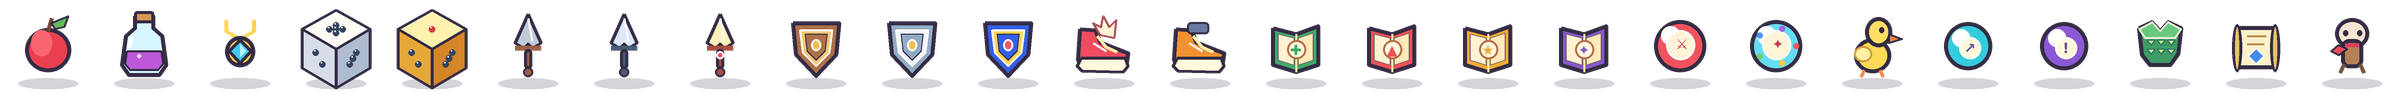
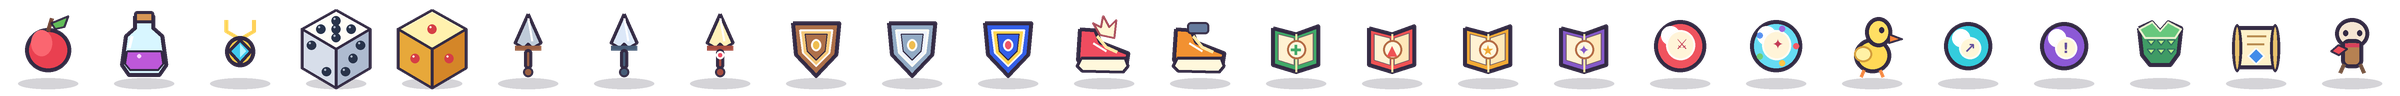
Polish item notices, status effects, rematch and respawn

Changed region(s): [[0.125, 0.1875, 0.1875, 0.7812]]

diff --git a/packages/client/src/scenes/Field.ts b/packages/client/src/scenes/Field.ts
@@ -47,6 +47,7 @@ export class Field extends Phaser.Scene {
   private actor = 0;
   private hpWin: HTMLElement | null = null;
   private timerWin: HTMLElement | null = null;
+  private pendingRespawn: { seat: number; x: number; y: number; dir: PublicPlayer['dir'] } | null = null;
 
   constructor() {
     super('Field');
@@ -58,6 +59,7 @@ export class Field extends Phaser.Scene {
     this.busy = false;
     this.shownAsk = '';
     this.streamedAsk = '';
+    this.pendingRespawn = null;
   }
 
   create() {
@@ -94,6 +96,7 @@ export class Field extends Phaser.Scene {
       host.batch.on((b) => { this.queue.push(b); void this.pump(); }),
       host.askChanged.on(() => this.refreshAsk(true)),
       host.kind === 'online' ? host.chat.on((m) => say({ from: m.from, text: m.text, color: m.color, system: !!m.system })) : () => {},
+      host.kind === 'online' ? net.started.on((next) => this.scene.restart({ host: next })) : () => {},
       onLayout(() => this.time.delayedCall(0, () => { this.status?.draw(this.view, this.view.turn); this.lookAt(this.actor); this.positionDesc(); })),
     ];
     this.events.once('shutdown', () => {
@@ -189,6 +192,7 @@ export class Field extends Phaser.Scene {
     this.heroes[seat].setPosition(px, py + CHR_OFFS_Y);
     this.shadows[seat].setPosition(px, py + 8);
     this.restack();
+    this.syncMarks(seat);
   }
 
   /** 手番キャラは同じマスでも一番手前 */
@@ -273,11 +277,12 @@ export class Field extends Phaser.Scene {
     this.descWin?.append(h('div', { class: 'tap-instruction' }, `もう一度タップすると${action}`));
   }
 
-  private gotWin(icon: number | null, text: string) {
+  private gotWin(icon: number | null, text: string, durationMs = 1500) {
     const el = centerWin(140, 140, icon ? h('span', { style: `${iconStyle(icon)};vertical-align:middle;margin-right:6px` }) : null, text);
+    el.classList.add('notice-window');
     if (icon) el.querySelector('span')?.classList.add('win-icon');
     fieldUI().append(el);
-    this.time.delayedCall(frames(30), () => el.remove());
+    this.time.delayedCall(durationMs, () => el.remove());
   }
 
   private refreshAsk(force = false) {
@@ -436,11 +441,21 @@ export class Field extends Phaser.Scene {
 
   private setMarks(p: PublicPlayer) {
     const list = this.marks[p.seat];
-    list.forEach((m) => m.destroy());
-    list.length = 0;
     const s = this.heroes[p.seat];
-    if (p.stun > 0) list.push(this.add.sprite(s.x, s.y - 22, 'fx/piyo').play('fx/piyo').setScale(0.5).setDepth(99999));
-    if (p.cursed) list.push(this.add.sprite(s.x + 10, s.y - 18, 'fx/curse').play('fx/curse').setScale(0.35).setDepth(99999));
+    const sync = (texture: string, active: boolean, x: number, y: number, scale: number) => {
+      const index = list.findIndex((mark) => mark.texture.key === texture);
+      if (!active) {
+        if (index >= 0) list.splice(index, 1)[0].destroy();
+        return;
+      }
+      if (index >= 0) {
+        list[index].setPosition(x, y).setDepth(99999).setScale(scale);
+        return;
+      }
+      list.push(this.add.sprite(x, y, texture).play(texture).setScale(scale).setDepth(99999));
+    };
+    sync('fx/piyo', p.stun > 0, s.x, s.y - 22, 0.5);
+    sync('fx/curse', p.cursed, s.x + 10, s.y - 18, 0.35);
   }
 
   private syncMarks(seat: number) {
@@ -562,8 +577,12 @@ export class Field extends Phaser.Scene {
       case 'getItem':
         se('get');
         system(`${this.name(e.seat)}は${ITEMS[e.item].name}を手に入れた！`);
-        if (this.host.mySeats.has(e.seat)) this.gotWin(e.item, `${ITEMS[e.item].name}を手に入れた！`);
-        await wait(this, frames(10));
+        this.gotWin(e.item, `${this.name(e.seat)}は${ITEMS[e.item].name}を手に入れた！`);
+        await wait(this, 1500);
+        return;
+      case 'itemUse':
+        this.gotWin(e.item, `${this.name(e.seat)}は${ITEMS[e.item].name}を使った！`);
+        await wait(this, 1500);
         return;
       case 'loseItem':
         return;
@@ -617,6 +636,11 @@ export class Field extends Phaser.Scene {
         this.hpWin = null;
         this.view = { ...this.view, battle: null };
         bgm('field');
+        if (this.pendingRespawn) {
+          const r = this.pendingRespawn;
+          this.pendingRespawn = null;
+          await this.animateRespawn(r.seat, r);
+        }
         return;
       case 'death':
         se('lose');
@@ -627,15 +651,13 @@ export class Field extends Phaser.Scene {
         await wait(this, frames(10));
         return;
       case 'respawn': {
-        const r = end.players[e.seat]?.respawn;
-        if (r) {
-          this.placeHero(e.seat, r.x, r.y);
-          this.heroes[e.seat].setAlpha(1).setAngle(0);
-          se('warp');
-          this.lookAt(e.seat);
-          this.fxAt('warp', this.heroes[e.seat].x, this.heroes[e.seat].y);
-        }
-        await wait(this, frames(10));
+        const player = end.players[e.seat];
+        if (!player) return;
+        this.setMarks(player);
+        const r = player.respawn;
+        const target = { seat: e.seat, x: r.x, y: r.y, dir: r.dir };
+        if (inBattle) this.pendingRespawn = target;
+        else await this.animateRespawn(e.seat, target);
         return;
       }
       case 'warp': {
@@ -712,23 +734,58 @@ export class Field extends Phaser.Scene {
     });
   }
 
+  private async animateRespawn(seat: number, target: { x: number; y: number; dir: PublicPlayer['dir'] }) {
+    const hero = this.heroes[seat];
+    if (!hero) return;
+    const x = target.x * T + T / 2;
+    const y = target.y * T + T / 2 + CHR_OFFS_Y;
+    const dx = x - hero.x;
+    const dy = y - hero.y;
+    const direction = Math.abs(dx) > Math.abs(dy) ? (dx >= 0 ? 'right' : 'left') : (dy >= 0 ? 'down' : 'up');
+    this.lookAt(seat);
+    this.faceHero(seat, direction, true);
+    hero.setVisible(true).setAlpha(0.35).setAngle(0);
+    se('warp');
+    this.fxAt('warp', hero.x, hero.y);
+    await tween(this, {
+      targets: hero, x, y, alpha: 1, angle: 0, duration: frames(24), ease: 'Sine.easeInOut',
+      onUpdate: () => {
+        this.shadows[seat].setPosition(hero.x, hero.y - CHR_OFFS_Y + 8);
+        this.syncMarks(seat);
+        this.restack();
+      },
+    });
+    hero.stop();
+    this.faceHero(seat, target.dir, false);
+    this.placeHero(seat, target.x, target.y);
+    this.fxAt('warp', hero.x, hero.y);
+    await wait(this, frames(8));
+  }
+
   /** 結果（UI_LAYOUT §5）：閉じるとゲーム終了 */
   private result(winner: number) {
     const close = () => {
       if (this.host.kind === 'online') net.leave();
       this.scene.start('Menu');
     };
-    const items: MenuItem[] = [{ label: '閉じる', on: close }];
-    if (this.host.kind === 'online') items.unshift({ label: 'リマッチ', on: () => net.send('rematch') });
-    items.unshift({
-      label: 'リプレイ保存', on: async () => {
+    const actions: HTMLElement[] = [];
+    if (this.host.kind === 'online') {
+      const rematch = h('button', { type: 'button', class: 'result-action', onclick: () => {
+        if (rematch.disabled) return;
+        rematch.disabled = true;
+        rematch.textContent = '相手の再戦を待っています…';
+        net.send('rematch');
+      } }, 'リマッチ');
+      actions.push(rematch);
+    }
+    actions.push(h('button', { type: 'button', class: 'result-action', onclick: async () => {
         const d = await this.host.replayData();
         if (d) h('a', { href: URL.createObjectURL(new Blob([JSON.stringify(d)], { type: 'application/json' })), download: `beefhunter_replay_${Date.now()}.json` }).click();
-      },
-    });
-    $('overlay').append(h('div', { class: 'win', style: 'left:50%;top:40%;transform:translate(-50%,-50%);padding:10px 14px;text-align:center' },
-      h('div', { style: 'font-size:16px' }, `優勝者は ${this.name(winner)} さんです！`),
-      h('div', { style: 'font-size:12px;margin:4px 0' }, 'このウィンドウを閉じるとゲームを終了します'),
-      menuWin(items, 'position:static;border:0')));
+      } }, 'リプレイ保存'));
+    actions.push(h('button', { type: 'button', class: 'result-action', onclick: close }, '閉じる'));
+    $('overlay').append(h('div', { class: 'win result-window', role: 'dialog', 'aria-modal': 'true', 'aria-label': 'ゲーム結果' },
+      h('div', { class: 'result-title' }, `優勝者は ${this.name(winner)} さんです！`),
+      h('div', { class: 'result-copy' }, 'このウィンドウを閉じるとゲームを終了します'),
+      h('div', { class: 'result-actions' }, ...actions)));
   }
 }

diff --git a/packages/client/e2e/regressions.spec.ts b/packages/client/e2e/regressions.spec.ts
@@ -1,0 +1,100 @@
+import { expect, test } from '@playwright/test';
+
+test('状態表示・アイテム通知・復活移動・結果画面の回帰確認', async ({ page }) => {
+  test.setTimeout(60000);
+  await page.setViewportSize({ width: 640, height: 324 });
+  await page.addInitScript(() => localStorage.setItem('beefhunter.v1', JSON.stringify({ name: '回帰テスト', sound: false, speed: 1, stream: 'none' })));
+  await page.goto('/');
+  await page.locator('.press').click();
+  await page.getByText('一人で遊ぶ', { exact: true }).click();
+  await page.getByText('決定', { exact: true }).click();
+  await page.locator('.it', { hasText: '召喚士' }).click();
+  await page.getByText('ゲーム開始', { exact: true }).click();
+  await expect(page.locator('.okbtn')).toBeVisible({ timeout: 15000 });
+
+  // アイテムの入手通知は手番プレイヤー以外の獲得でも全員に表示し、演出速度に左右されず1.5秒残る。
+  await page.evaluate(() => {
+    const field = (window as any).game.scene.getScene('Field');
+    void field.play({ t: 'getItem', seat: 1, item: 1 }, field.view);
+  });
+  const notice = page.locator('.notice-window');
+  await expect(notice).toContainText('りんごを手に入れた！');
+  await page.waitForTimeout(800);
+  await expect(notice).toBeVisible();
+  await page.waitForTimeout(800);
+  await expect(notice).toHaveCount(0);
+
+  await page.evaluate(() => {
+    const field = (window as any).game.scene.getScene('Field');
+    void field.play({ t: 'itemUse', seat: 1, item: 1 }, field.view);
+  });
+  await expect(notice).toContainText('りんごを使った！');
+  await page.waitForTimeout(800);
+  await expect(notice).toBeVisible();
+  await page.waitForTimeout(800);
+  await expect(notice).toHaveCount(0);
+
+  const statusResult = await page.evaluate(async () => {
+    const field = (window as any).game.scene.getScene('Field');
+    const p = field.view.players[0];
+    p.stun = 2;
+    p.cursed = true;
+    field.setMarks(p);
+    const adjacent = (x: number, y: number) => field.map.data.path.find((c: any) => Math.abs(c.x - x) + Math.abs(c.y - y) === 1);
+    const next = adjacent(p.x, p.y);
+    if (!next) throw new Error('No adjacent path cell for status marker test');
+    const activeEnd = { ...field.view, players: field.view.players.map((q: any, i: number) => i === 0 ? { ...q, x: next.x, y: next.y } : q) };
+    await field.play({ t: 'move', seat: 0, cells: [{ x: next.x, y: next.y }] }, activeEnd);
+    field.view = activeEnd;
+    const marks = field.marks[0];
+    const hero = field.heroes[0];
+    const followed = marks.length === 2 && marks.every((m: any) => Math.abs(m.y - (hero.y - 22)) < 0.01 || Math.abs(m.y - (hero.y - 18)) < 0.01);
+    const sizes = marks.map((m: any) => [m.texture.key, m.scaleX, m.scaleY]);
+    const next2 = adjacent(next.x, next.y);
+    if (!next2) throw new Error('No second adjacent path cell for status release test');
+    const clearedEnd = { ...activeEnd, players: activeEnd.players.map((q: any, i: number) => i === 0 ? { ...q, stun: 0, cursed: false, x: next2.x, y: next2.y } : q) };
+    await field.play({ t: 'move', seat: 0, cells: [{ x: next2.x, y: next2.y }] }, clearedEnd);
+    const cleared = field.marks[0].length === 0;
+    return { followed, sizes, cleared };
+  });
+  expect(statusResult.followed).toBe(true);
+  expect(statusResult.sizes).toEqual([['fx/piyo', 0.5, 0.5], ['fx/curse', 0.35, 0.35]]);
+  expect(statusResult.cleared).toBe(true);
+
+  const respawnResult = await page.evaluate(async () => {
+    const field = (window as any).game.scene.getScene('Field');
+    const start = { x: field.heroes[0].x, y: field.heroes[0].y };
+    const tile = field.map.data.tileSize;
+    const target = field.map.data.path.reduce((best: any, c: any) => {
+      const d = Math.abs(c.x * tile + tile / 2 - start.x) + Math.abs(c.y * tile + tile / 2 - 10 - start.y);
+      const bd = Math.abs(best.x * tile + tile / 2 - start.x) + Math.abs(best.y * tile + tile / 2 - 10 - start.y);
+      return d > bd ? c : best;
+    }, field.map.data.path[0]);
+    const end = { ...field.view, players: field.view.players.map((p: any, i: number) => i === 0 ? { ...p, respawn: { x: target.x, y: target.y, dir: 'down', steps: 0 } } : p) };
+    const animation = field.play({ t: 'respawn', seat: 0 }, end);
+    await new Promise((resolve) => window.setTimeout(resolve, 120));
+    const during = { x: field.heroes[0].x, y: field.heroes[0].y };
+    await animation;
+    const finish = { x: field.heroes[0].x, y: field.heroes[0].y };
+    const destination = { x: target.x * tile + tile / 2, y: target.y * tile + tile / 2 - 10 };
+    return {
+      movedDuring: Math.hypot(during.x - start.x, during.y - start.y) > 1 && Math.hypot(during.x - destination.x, during.y - destination.y) > 1,
+      arrived: Math.hypot(finish.x - destination.x, finish.y - destination.y) < 0.01,
+    };
+  });
+  expect(respawnResult.movedDuring).toBe(true);
+  expect(respawnResult.arrived).toBe(true);
+
+  // 再戦要求は待機表示になる。新ゲーム開始イベントでFieldを再作成し、閉じる操作でMenuへ戻れる。
+  await page.evaluate(() => {
+    const field = (window as any).game.scene.getScene('Field');
+    field.host.kind = 'online';
+    field.result(0);
+  });
+  const rematch = page.getByRole('button', { name: 'リマッチ' });
+  await expect(rematch).toBeVisible();
+  await rematch.click();
+  await expect(page.getByRole('button', { name: '相手の再戦を待っています…' })).toBeDisabled();
+  await page.getByRole('button', { name: '閉じる' }).click();
+  await expect(page.getByText('一人で遊ぶ', { exact: true })).toBeVisible();
+});

diff --git a/packages/client/public/sw.js b/packages/client/public/sw.js
@@ -1,5 +1,5 @@
 /* 画像・音の事前キャッシュ（PWA） */
-const CACHE = 'beefhunter-v5';
+const CACHE = 'beefhunter-v6';
 const PRECACHE = ["assets/img/assets_index.json","assets/img/chars/boss_beast.png","assets/img/chars/boss_demon.png","assets/img/chars/boss_dragon.png","assets/img/chars/boss_overlord.png","assets/img/chars/enemy_flytrap.png","assets/img/chars/enemy_golem.png","assets/img/chars/enemy_shadow.png","assets/img/chars/enemy_slime.png","assets/img/chars/enemy_thornbug.png","assets/img/chars/hero_courier.png","assets/img/chars/hero_priest.png","assets/img/chars/hero_spellknight.png","assets/img/chars/hero_summoner.png","assets/img/chars/hero_warrior.png","assets/img/dice/faces.png","assets/img/dice/ichi.png","assets/img/dice/roll.png","assets/img/fx/absorb.png","assets/img/fx/curse.png","assets/img/fx/cursor.png","assets/img/fx/encount.png","assets/img/fx/explosion.png","assets/img/fx/fire.png","assets/img/fx/gold.png","assets/img/fx/heal.png","assets/img/fx/hit.png","assets/img/fx/paru.png","assets/img/fx/paru_kiwami.png","assets/img/fx/piyo.png","assets/img/fx/summon_circle.png","assets/img/fx/summon_seed.png","assets/img/fx/swap.png","assets/img/fx/warp.png","assets/img/items/icons.png","assets/img/npc/dealer.png","assets/img/npc/inn.png","assets/img/npc/merchant.png","assets/img/npc/priest.png","assets/img/npc/shoesage.png","assets/img/npc/smith.png","assets/img/num/damage.png","assets/img/num/gold.png","assets/img/num/heal.png","assets/img/obj/chest.png","assets/img/obj/chest_open.png","assets/img/obj/gold_large.png","assets/img/obj/gold_small.png","assets/img/obj/qbox.png","assets/img/obj/tack.png","assets/img/obj/tack_big.png","assets/img/tiles/bridge.png","assets/img/tiles/forest.png","assets/img/tiles/grass.png","assets/img/tiles/mountain.png","assets/img/tiles/path.png","assets/img/tiles/path_boss.png","assets/img/tiles/path_branch.png","assets/img/tiles/path_lastboss.png","assets/img/tiles/path_start.png","assets/img/tiles/sand.png","assets/img/tiles/sea_0.png","assets/img/tiles/sea_1.png","icons/icon-192.png","icons/icon-512.png","manifest.webmanifest","assets/img/brand/beef-rune.png","assets/img/items/icons-hd.png","assets/img/dice/faces-hd.png","assets/img/dice/roll-hd.png","assets/img/dice/ichi-hd.png","assets/img/obj/chest-hd.png","assets/img/obj/chest_open-hd.png","assets/img/obj/qbox-hd.png","assets/img/obj/tack-hd.png","assets/img/obj/tack_big-hd.png","assets/img/obj/gold_small-hd.png","assets/img/obj/gold_large-hd.png"];
 
 self.addEventListener('install', (e) => {

diff --git a/packages/client/src/style.css b/packages/client/src/style.css
@@ -94,3 +94,10 @@ body { font-family: system-ui, 'Hiragino Kaku Gothic ProN', 'Noto Sans JP', 'Mei
 .turnpop { z-index: 40; min-width: 236px; padding: 12px; border-color: #fff1be; text-align: center; }
 .turn-play-icon { display: inline-block; margin-right: 7px; color: #ad4050; }
 .char-stats { color: #fff0c9; text-shadow: 0 1px #29324c; }
+.result-window { z-index: 80; left: 50%; top: 50%; transform: translate(-50%, -50%); width: min(300px, calc(100% - 20px)); max-height: calc(100% - 20px); overflow-y: auto; padding: 12px; text-align: center; white-space: normal; touch-action: pan-y; }
+.result-title { font-size: 16px; line-height: 1.45; font-weight: 900; color: #fff2cf; }
+.result-copy { margin: 5px 0 10px; font-size: 12px; line-height: 1.5; color: #e8e2ff; }
+.result-actions { display: flex; flex-direction: column; gap: 7px; }
+.result-action { width: 100%; min-height: 38px; padding: 5px 10px; border: 2px solid #fff0c6; border-radius: 8px; background: linear-gradient(180deg, #ffd75e 0%, #f8a743 100%); box-shadow: 0 3px 0 #9f4d34, inset 0 1px 0 #fff7d9; color: #40294b; font: inherit; font-weight: 900; cursor: pointer; touch-action: manipulation; }
+.result-action:active { transform: translateY(2px); box-shadow: 0 1px 0 #9f4d34; }
+.result-action:disabled { opacity: .72; cursor: wait; }

diff --git a/packages/shared/src/rules.ts b/packages/shared/src/rules.ts
@@ -554,6 +554,7 @@ function* battle(g: Game, p: PlayerState, idx: number): Flow {
       const it = p.items[inp.slot];
       const d = ITEMS[it.id];
       g.msg(`${p.name}は${d.name}を使った！`, p.seat);
+      g.emit({ t: 'itemUse', seat: p.seat, item: it.id });
       if (d.kind === 'magic') p.mp -= d.mp ?? 0;
       else removeSlot(g, p, inp.slot, false);
       switch (it.id) {
@@ -646,6 +647,7 @@ function* useFieldItem(g: Game, p: PlayerState, slot: number): Flow {
   const it = p.items[slot];
   const d = ITEMS[it.id];
   g.msg(`${p.name}は${d.name}を使った！`, p.seat);
+  g.emit({ t: 'itemUse', seat: p.seat, item: it.id });
   if (d.kind === 'magic') p.mp -= d.mp ?? 0;
   else removeSlot(g, p, slot, false);
   switch (it.id) {

diff --git a/packages/shared/src/types.ts b/packages/shared/src/types.ts
@@ -158,6 +158,7 @@ export type GameEvent =
   | { t: 'heal'; seat: number; amount: number }
   | { t: 'gold'; seat: number; amount: number }
   | { t: 'getItem'; seat: number; item: number }
+  | { t: 'itemUse'; seat: number; item: number }
   | { t: 'loseItem'; seat: number; item: number }
   | { t: 'objRemove'; idx: number }
   | { t: 'chestOpen'; idx: number }

diff --git a/gen/polish_assets.py b/gen/polish_assets.py
@@ -75,7 +75,7 @@ def build_items():
     # 3. Gold amulet pendant around blue gem.
     im=frame();d=ImageDraw.Draw(im); line(d,[(34,20),(34,31),(48,39),(62,31),(62,20)],'#ffcf56',4); ell(d,(33,36,63,67),'#ffca49',INK,4); poly(d,[(48,40),(59,51),(48,63),(37,51)],'#40c9ef',INK,3); poly(d,[(48,44),(54,51),(48,57)],'#b3f4ff',None); out.append(im)
     # 4-5. Clean simple face dice, not ornate 3-D models.
-    out.append(draw_die(5,2,3)); out.append(draw_die(1,2,3,True))
+    out.append(draw_die(5,2,3)); out.append(draw_die(1,1,1,True))
     # 6-8. Daggers and swords: distinct blade material and hero gem.
     for blade,hilt,gem in [('#bfcbd9','#9b6043',None),('#dce8f8','#465c77',None),('#fff1ba','#a64d40','#f14d65')]:
         im=frame();d=ImageDraw.Draw(im); poly(d,[(48,14),(61,43),(52,48),(48,44),(44,48),(35,43)],blade,INK,3); line(d,[(48,18),(52,41)],'#fff',2); line(d,[(35,48),(61,48)],hilt,5); rr(d,(44,49,52,69),4,hilt,INK,3); ell(d,(43,67,53,77),hilt,INK,2)
@@ -136,7 +136,7 @@ def build_dice():
         y=(F-rot.height)//2
         roll.alpha_composite(rot,(F*i,y))
     roll.save(OUT/'dice/roll-hd.png', optimize=True)
-    finish(draw_die(1,2,3,gold=True)).save(OUT/'dice/ichi-hd.png', optimize=True)
+    finish(draw_die(1,1,1,gold=True)).save(OUT/'dice/ichi-hd.png', optimize=True)
 
 def build_objects():
     drawings={}

diff --git a/TODO.md b/TODO.md
@@ -1,8 +1,18 @@
-# ビジュアル調整
+# 仕上げ修正
 
-- [x] 「たんしおレモン」の「牛すじハンター」に近づけてビジュアルを整える。明るい草地、青い海、クリーム色のマス、小さな同梱キャラクター、紺色の四角いウィンドウで統一する。
-- [x] タイトル・キャラ選択・ステータス・戦闘画面の表示を整え、横640×324と縦360×684の既存座標体系を保つ。
-- [x] ゲームのルールやシステムは変更しない。shared / server / マップデータを変更せず、キャラクター能力・操作・画面遷移・演出待機時間・通信を維持する。
-- [x] 変更を専用ブランチとPRに保存し、ローカル確認用プレビューを提供する。
+- [x] タイトル看板の「冒険RPG」ラベルをタイトル文字に重ならない位置へ丁寧に配置する。
+- [x] ノロイ・ひよこの状態表示は効果中にキャラクターのマスへ追従し、効果が切れたら残留せず消える。移動・ワープ・復活を含め、表示のサイズが縮小し続けない。
+- [x] アイテム欄のサイコロは高解像度版を表示する。イチコロはアイコン・使用演出の全ての面が「1」である。通常サイコロの目は実物のサイコロのように見やすく配置する。
+- [x] ゲーム終了後の結果ウィンドウは確実に閉じられ、オンライン対戦ではリマッチを開始できる。再戦待ちの間も終了操作ができる。
+- [x] アイテムを入手したとき、または使用したとき、対象プレイヤーだけでなく全員の画面に内容がわかるポップアップウィンドウを各1.5秒表示する。
+- [x] 死亡後は復活地点までキャラクターが移動するアニメーションを表示し、その完了後に次のキャラクターのターンへ進む。
+- [x] ゲームルール・状態遷移・アイテム効果は変更せず、視覚イベントと演出のみを追加した。
+- [ ] 修正を許可された `hiirocreate/Gyusuji` へマージ・反映する。
 
-確認結果: `npm test`（変更しない既存ルール・サーバ）、最終版の `npm run typecheck` と `npm run build` が成功。最終版の `visual.spec.ts` は3マップ×横縦の6件がすべて成功し、キャラ行のはみ出し、待機メニューとチャットバーの重なり、カメラ領域と派生テクスチャ寸法、ブラウザー実行時エラーを確認した。
+## 検証記録
+
+- `npm test`、`npm run typecheck`、`npm run build` 成功。
+- Playwrightは全体実行で既存13件が成功し、今回追加した回帰テストはセレクター修正後の単独再実行で成功。production-onlyテスト1件は通常どおりskip。
+- 高解像度イチコロ画像を目視し、アイコンと使用演出の全ての表示面が「1」であることを確認。
+- AndroidはCapacitorアセット同期済み。更新版APKのビルド完了待ち。
+- PR #7 は現在オープン。今回の変更を同PRへ追加し、最終チェック後にマージ・反映する。
